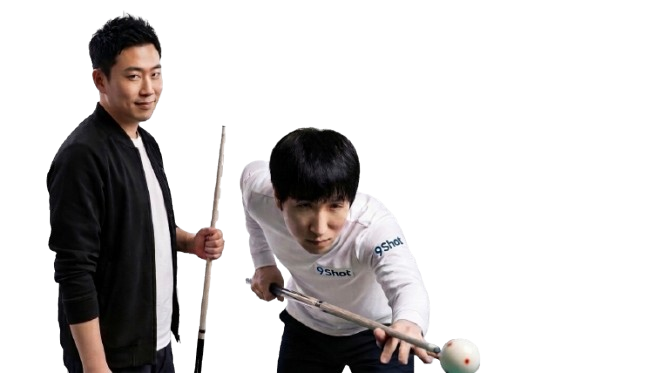
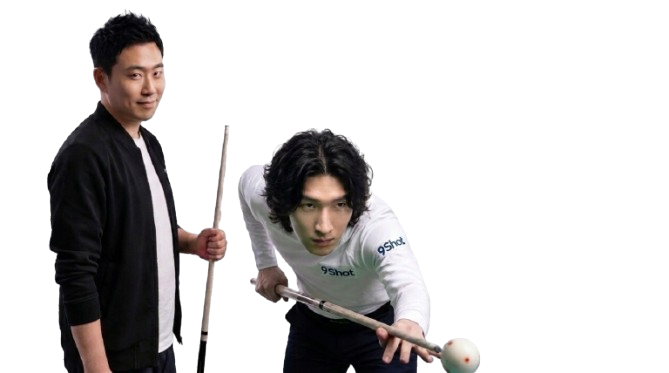
style: Enhance hero background with Ken Burns effect and make rune buttons less intrusive

diff --git a/src/styles/random.css b/src/styles/random.css
@@ -304,13 +304,38 @@
   overflow: hidden;
   z-index: 0;
   border-radius: inherit;
+  /* 프리미엄 사이버펑크 느낌을 위한 내부 그림자/글로우 */
+  box-shadow: inset 0 0 60px rgba(0, 255, 255, 0.05);
+}
+
+/* 중앙 콘텐츠에 집중도를 높이고 가장자리를 어둡게 하는 비네트 오버레이 */
+.cc-hero-bg-wrapper::after {
+  content: '';
+  position: absolute;
+  inset: 0;
+  background: radial-gradient(circle at center, transparent 15%, rgba(9, 14, 23, 0.95) 100%);
+  z-index: 2;
+  pointer-events: none;
 }
 
 .cc-hero-bg-base {
   width: 100%;
   height: 100%;
   object-fit: cover;
-  object-position: center 20%;
+  object-position: center 50%;
+  /* 생동감을 주는 천천히 숨쉬는 줌 애니메이션 (Ken Burns 효과) */
+  animation: cc-hero-breathe 20s ease-in-out infinite alternate;
+  /* 사이버 에스테틱에 맞는 대비와 채도 조정 */
+  filter: brightness(0.85) contrast(1.15) saturate(1.1);
+}
+
+@keyframes cc-hero-breathe {
+  0% {
+    transform: scale(1);
+  }
+  100% {
+    transform: scale(1.1);
+  }
 }
 
 /* 글리치(지�?거리?? ?�과 ?��?지 */
@@ -610,15 +635,18 @@
   cursor: pointer;
   /* Ensure wrappers stretch to same height if one is somehow larger */
   justify-content: flex-end;
+  /* 평소에는 투명도와 크기를 줄여 배경 비주얼을 방해하지 않음 */
+  opacity: 0.45;
+  transform: scale(0.8);
+  transition: all 0.4s cubic-bezier(0.25, 0.46, 0.45, 0.94);
 }
 
-.cc-rune-btn-wrapper:hover .cc-rune-match-btn,
-.cc-rune-btn-wrapper:hover .cc-rune-reset-btn {
-  transform: scale(1.1);
+.cc-rune-btn-wrapper:hover {
+  opacity: 1;
+  transform: scale(1.05);
 }
 
-.cc-rune-btn-wrapper:active .cc-rune-match-btn,
-.cc-rune-btn-wrapper:active .cc-rune-reset-btn {
+.cc-rune-btn-wrapper:active {
   transform: scale(0.95);
 }
 
